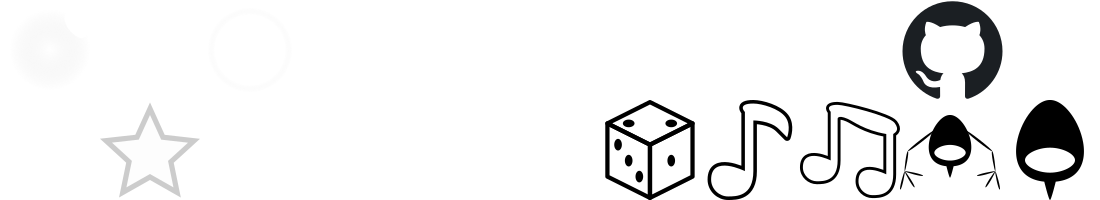
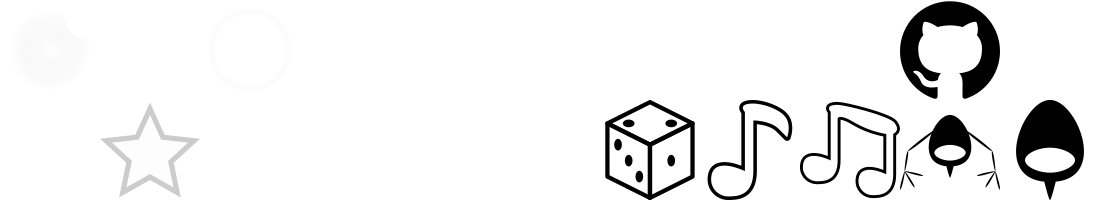
UI enhancements

Changed region(s): [[0.8036, 0.0, 0.9273, 0.51]]

diff --git a/src/ui.ts b/src/ui.ts
@@ -1,11 +1,20 @@
 import * as LJS from "littlejsengine";
-import { font, spriteAtlas, titleMenu, type AtlasKey } from "./main";
-import { rgba } from "./mathUtils";
+import {
+  center,
+  currentSong,
+  playerColor,
+  setPlayerColor,
+  spriteAtlas,
+  titleMenu,
+  type AtlasKey,
+} from "./main";
+import { LOG, rgba } from "./mathUtils";
+import { uitext as uiText } from "./uiUtils";
+import { Tween } from "./tween";
 const { vec2, rgb, hsl } = LJS;
 
 export let colorPickerMenu: LJS.UIObject;
 export let colorPickerBtn: LJS.UIObject;
-export let playerColor: LJS.Color;
 export let startBtn: LJS.UIButton;
 
 export class IconButton extends LJS.UIButton {
@@ -17,6 +26,7 @@ export class IconButton extends LJS.UIButton {
       iconPos = vec2(),
       iconSize = vec2(40),
       iconColor = undefined as LJS.Color | undefined,
+      iconAngle = 0,
       onClick = () => {},
       onEnter = () => {},
       onLeave = () => {},
@@ -28,7 +38,8 @@ export class IconButton extends LJS.UIButton {
       iconPos,
       iconSize,
       spriteAtlas[iconKey],
-      iconColor
+      iconColor,
+      iconAngle
     );
     this.addChild(icon);
 
@@ -45,7 +56,8 @@ export function createTitleMenu() {
   createColorPickerUI();
 
   const y = 150;
-  startBtn = new LJS.UIButton(vec2(0, y), vec2(200, 50), "Start", LJS.CYAN);
+  const startBtnSize = vec2(200, 50);
+  startBtn = new LJS.UIButton(vec2(0, y), startBtnSize, "Start", LJS.CYAN);
 
   // startBtn.pos = LJS.mainCanvasSize.multiply(vec2(0.5, 0.8));
 
@@ -67,28 +79,30 @@ export function createTitleMenu() {
   colorPickerBtn.cornerRadius = 10;
 
   let credits = new LJS.UIText(
-    LJS.mainCanvasSize.multiply(vec2(0.8, 0.95)),
+    center.multiply(vec2(0, 0.9)),
     vec2(100, 15),
     `dalps 2025`
   );
 
-  let sourcecodeBtn = new IconButton(vec2(80, 0), "github");
+  let sourcecodeBtn = new IconButton(center.subtract(vec2(-50)), "github");
   // sourcecodeBtn.lineWidth = 3;
   sourcecodeBtn.cornerRadius = 10;
   sourcecodeBtn.lineColor = sourcecodeBtn.hoverColor = LJS.BLACK;
 
-  credits.addChild(sourcecodeBtn);
+  // credits.addChild(sourcecodeBtn);
 
   sourcecodeBtn.color = credits.textColor = rgba(235, 235, 235, 1);
 
   credits.hoverColor = LJS.CLEAR_WHITE;
 
   credits.interactive = credits.canBeHover = true;
+
   credits.onClick = sourcecodeBtn.onClick = () => {
     open(`https://github.com/dalps/LittleJS2025`, `_blank`);
   };
 
   titleMenu.addChild(credits);
+  titleMenu.addChild(sourcecodeBtn);
   titleMenu.addChild(startBtn);
   titleMenu.addChild(colorPickerBtn);
 }
@@ -100,7 +114,7 @@ function createColorPickerUI() {
   colorPickerMenu = new LJS.UIObject(LJS.mainCanvasSize.scale(0.5));
   colorPickerMenu.visible = false;
 
-  colorPickerMenu.color = LJS.GRAY;
+  colorPickerMenu.color = playerColor;
   colorPickerMenu.lineColor = LJS.BLACK;
 
   let mkColorBtn = (
@@ -126,10 +140,9 @@ function createColorPickerUI() {
     };
 
     const onClick = () => {
-      colorPickerBtn.hoverColor =
-        colorPickerBtn.color =
-        playerColor =
-          color ?? LJS.randColor();
+      colorPickerBtn.hoverColor = colorPickerBtn.color =
+        color ?? LJS.randColor();
+      setPlayerColor(colorPickerBtn.color);
       colorPickerMenu.visible = false;
       titleMenu.visible = true;
       btn.lineColor = LJS.BLACK;
@@ -201,14 +214,21 @@ export let resumeBtn: LJS.UIObject;
 export function createPauseMenu() {
   pauseMenu = new LJS.UIObject(LJS.mainCanvasSize.scale(0.5));
 
-  const text = new LJS.UIText(vec2(0, -100), vec2(1000, 50), "PAUSE");
+  const title = uiText("PAUSE", {
+    pos: vec2(0, -100),
+    fontSize: 50,
+  });
 
-  text.textColor = LJS.WHITE;
+  // resumeBtn = new LJS.UIButton(vec2(0, 150), vec2(200, 50), "Resume", LJS.GRAY);
+  quitBtn = new LJS.UIButton(vec2(0, 150), vec2(200, 50), "Quit", LJS.RED);
 
-  resumeBtn = new LJS.UIButton(vec2(0, 150), vec2(200, 50), "Resume", LJS.GRAY);
-  quitBtn = new LJS.UIButton(vec2(0, 215), vec2(200, 50), "Quit", LJS.RED);
-
-  pauseMenu.addChild(text);
+  quitBtn.addChild(
+    uiText(`(no resume for now, sorry!)`, {
+      pos: vec2(0, -60),
+      fontSize: 20,
+    })
+  );
+  pauseMenu.addChild(title);
   pauseMenu.addChild(quitBtn);
-  pauseMenu.addChild(resumeBtn);
+  // pauseMenu.addChild(resumeBtn);
 }

diff --git a/src/main.ts b/src/main.ts
@@ -2,13 +2,14 @@
 
 // import LittleJS module
 import * as LJS from "littlejsengine";
-import { changeBackground, pulse, sleep } from "./animUtils";
+import { changeBackground, impulse, pulse, sleep } from "./animUtils";
 import { PatternWrapping } from "./beat";
 import { Microbe } from "./entities/microbe";
 import { Player } from "./entities/player";
 import {
   initLevels,
-  levelSelection,
+  createLevelsMenu,
+  levelsMenu,
   pauseBtn,
   storeKey,
   tutorialLevel,
@@ -24,7 +25,7 @@ import { createPauseMenu, createTitleMenu, pauseMenu, startBtn } from "./ui";
 import { ScreenButton } from "./uiUtils";
 const { vec2, rgb, tile, time } = LJS;
 
-export const DEBUG = false;
+export const DEBUG = true;
 
 export const ratings = {
   superb: {
@@ -149,7 +150,7 @@ function loadAssets() {
   );
 
   songs.initSongs();
-  currentSong = songs.paarynasAllrite!;
+  setCurrentSong(songs.paarynasAllrite);
 
   titleMenu = new LJS.UIObject(LJS.mainCanvasSize.scale(0.5));
   let titleText = new LJS.UIText(
@@ -251,19 +252,24 @@ export function clearRow() {
 export function titleScreen() {
   setGameState(GameState.Title);
 
-  createTitleMenu();
-  pauseMenu.visible = false;
+  pauseMenu.visible = levelsMenu.visible = false;
   titleMenu.visible = true;
 
-  startBtn.onClick = startGame;
-
   setCurrentSong(songs.paarynasAllrite);
+
+  startBtn.onClick = startGame;
+  const startBtnSize = startBtn.size.copy();
+  const setSize = (t: number) => {
+    startBtn.size = startBtnSize.scale(t);
+  };
+  let scaleDelta = 0.1;
+  currentSong.beat.onbeat(() =>
+    impulse({ start: 1, end: 1 + scaleDelta, fn: setSize })
+  );
+
   currentSong.play({ loop: true });
 
   changeBackground();
-
-  LJS.setTouchInputEnable(true);
-  LJS.setSoundVolume(1);
 
   makeRow({ wrapping: PatternWrapping.Loop });
 
@@ -290,7 +296,8 @@ export function titleScreen() {
 function startGame() {
   if (!tutorialLevel.completed) return tutorial();
 
-  levelSelection();
+  levelsMenu.visible = true;
+  titleMenu.visible = false;
 }
 
 ///////////////////////////////////////////////////////////////////////////////
@@ -304,12 +311,17 @@ function gameInit() {
   let storedColor = localStorage.getItem(storeKey("player", "color"));
   playerColor = storedColor ? new LJS.Color().setHex(storedColor) : LJS.RED;
 
-  createPauseMenu();
-  pauseMenu.visible = false;
-
   loadAssets();
   initLevels();
+  createPauseMenu();
+  createTitleMenu();
+  createLevelsMenu();
 
+  LJS.setTouchInputEnable(true);
+  LJS.setSoundVolume(1);
+
+  pauseMenu.visible = titleMenu.visible = levelsMenu.visible = false;
+  // titleScreen();
   // levelSelection();
   // tutorial();
 

diff --git a/src/levels.ts b/src/levels.ts
@@ -127,17 +127,17 @@ export class Level {
       titleScreen();
     };
 
-    resumeBtn.onClick = () => {
-      setGameState(GameState.Game);
+    // resumeBtn.onClick = () => {
+    //   setGameState(GameState.Game);
 
-      pauseMenu.visible = false;
-      pauseBtn.visible = true;
+    //   pauseMenu.visible = false;
+    //   pauseBtn.visible = true;
 
-      changeBackground();
-      cameraZoom({ delta: 2 });
+    //   changeBackground();
+    //   cameraZoom({ delta: 2 });
 
-      currentSong.resume();
-    };
+    //   currentSong.resume();
+    // };
   }
 
   end() {
@@ -265,11 +265,22 @@ export function initLevels() {
   level1 = new Level("Stardust\nMemories", stardustMemories);
 }
 
-export function levelSelection() {
-  setGameState(GameState.LevelSelection);
-  let levelsMenu = new LJS.UIObject(center);
+export let levelsMenu: LJS.UIObject;
 
-  titleMenu.visible = false;
+export function createLevelsMenu() {
+  levelsMenu = new LJS.UIObject(center);
+
+  let backToTitleBtn = new IconButton(center.scale(-1).add(vec2(60)), "play", {
+    btnSize: vec2(50),
+    iconAngle: Math.PI,
+    iconColor: LJS.BLACK,
+    onClick: () => {
+      levelsMenu.visible = false;
+      titleMenu.visible = true;
+    },
+  });
+
+  levelsMenu.addChild(backToTitleBtn);
 
   levelsMenu.addChild(uitext("Levels", { pos: vec2(0, -160), fontSize: 70 }));
   levelsMenu.addChild(

diff --git a/src/music.ts b/src/music.ts
@@ -1,14 +1,14 @@
 import * as LJS from "littlejsengine";
 import { Beat, type Pattern } from "./beat";
+import { spriteAtlas } from "./main";
+import { DEG2RAD, LOG, rgba } from "./mathUtils";
 import {
   countInMetronomePattern,
   defaultMetronomePattern,
   Metronome,
 } from "./metronome";
-import { spriteAtlas, tileSize } from "./main";
-import { Ease, Tween } from "./tween";
-import { DEG2RAD, LOG, rgba } from "./mathUtils";
 import { countSwimActions } from "./songs";
+import { Ease, Tween } from "./tween";
 const { vec2, rgb, tile } = LJS;
 
 // prettier-ignore
@@ -242,7 +242,16 @@ export class Song {
       new Tween((t) => (n.angle = t), -15 * DEG2RAD, 15 * DEG2RAD, 50).then(
         Tween.PingPong
       );
+      //     this.beat.onbeat(([beat]) =>
+      //   new Tween(
+      //     (t) => (n.angle = (beat % 2 === 0 ? 1 : -1) * t),
+      //     -15 * DEG2RAD,
+      //     15 * DEG2RAD,
+      //     20
+      //   ).setEase(Ease.IN_OUT(Ease.SINE))
+      // );
     });
+
     this.songContainer.addChild(titleText);
     this.songContainer.addChild(authorText);
   }

diff --git a/src/beat.ts b/src/beat.ts
@@ -128,7 +128,7 @@ export class Beat {
     //     (res * 100) >> 0
     //   }%`
     // );
-    return { timing, accuracy: accuracy(timing) };
+    return { timing, accuracy: accuracy(timing), count: this.count };
   }
 
   private getId() {
@@ -161,19 +161,6 @@ export class Beat {
     });
     return id;
   }
-  /**
-   * Register a callback to be executed at a specific beat count
-   */
-  atbeat([beat, sub]: BeatCount, fn: () => void): string {
-    let id = this.getId();
-    this.listeners.set(id, ([b, s, br]) => {
-      if (b === beat && s === sub) {
-        fn();
-        this.removeListener(id);
-      }
-    });
-    return id;
-  }
 
   /**
    * Register a callback to be executed once at a specific beat count
@@ -199,9 +186,11 @@ export class Beat {
     }
 
     let id = this.getId();
+    console.log(this.listeners);
     this.listeners.set(id, ([beat, sub, bar]) =>
       listener(ptn.at(barPicker(bar))?.at(beat)?.at(sub))
     );
+    console.log(this.listeners);
     return id;
   }
 

diff --git a/src/animUtils.ts b/src/animUtils.ts
@@ -35,3 +35,12 @@ export const cameraZoom = ({
     LJS.cameraScale + delta,
     duration
   ).setEase(ease);
+
+export const impulse = ({
+  start = 1,
+  end = 1.2,
+  duration = 3,
+  fn = (t: number) => {},
+} = {}) => {
+  new Tween(fn, start, end, duration).then(Tween.PingPong(2));
+};
